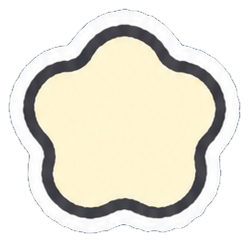
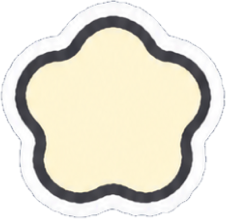
design: 변경된 홈 화면 CTA 폰트 정렬 반영

Changed region(s): [[0.0, 0.0, 1.0, 1.0]]

diff --git a/components/home/HomeHero.js b/components/home/HomeHero.js
@@ -62,11 +62,11 @@ export default function HomeHero({ userName, week, weekStatus }) {
           </span>
         ))}
       </div>
-      <Link ref={ctaRef} href="/retrospective" data-active={["NOT_STARTED", "IN_PROGRESS"].includes(weekStatus)} className="home-hero-cta absolute flex h-[153px] w-[157px] items-center justify-center rounded-full focus-visible:outline-2 focus-visible:outline-offset-2 focus-visible:outline-white">
+      <Link ref={ctaRef} href="/retrospective" data-active={["NOT_STARTED", "IN_PROGRESS"].includes(weekStatus)} className="home-hero-cta absolute flex h-[153px] w-[157px] items-center justify-center rounded-full focus-visible:outline-2 focus-visible:outline-offset-2 focus-visible:outline-white lg:h-[167px] lg:w-[172px]">
         <span className="home-hero-cta-content relative flex size-full items-center justify-center">
-          <Image src="/images/home/cta-flower.png" alt="" fill sizes="157px" className="object-contain" />
-          <span className="relative flex items-center gap-1 pl-1.5 font-display text-[16px] leading-[25.6px] text-ink">
-            {cta}<Image src="/images/common/chevron-right-16.svg" alt="" width={16} height={16} />
+          <Image src="/images/home/cta-flower.png" alt="" fill sizes="(min-width: 1024px) 172px, 157px" className="object-contain" />
+          <span className="absolute inset-x-0 top-[44.3114%] flex items-center justify-center whitespace-nowrap font-display text-[14.208px] leading-[25.6px] tracking-[-0.15px] text-ink-strong">
+            {cta}<Image src="/images/home/cta-chevron-right.svg" alt="" width={16} height={16} className="shrink-0" />
           </span>
         </span>
       </Link>

diff --git a/app/globals.css b/app/globals.css
@@ -210,7 +210,6 @@ body {
   }
   .home-hero-copy {
     top: 33.6114%;
-    left: 49.5833%;
   }
   .home-hero-character {
     width: 35.8333%;
@@ -220,8 +219,9 @@ body {
     bottom: auto;
   }
   .home-hero-cta {
-    top: 52.6818%;
-    left: 64.6528%;
+    /* Figma 1440 × 839: 꽃 영역의 왼쪽 위 (922, 457). */
+    top: 54.4696%;
+    left: 64.0278%;
     right: auto;
   }
 }
